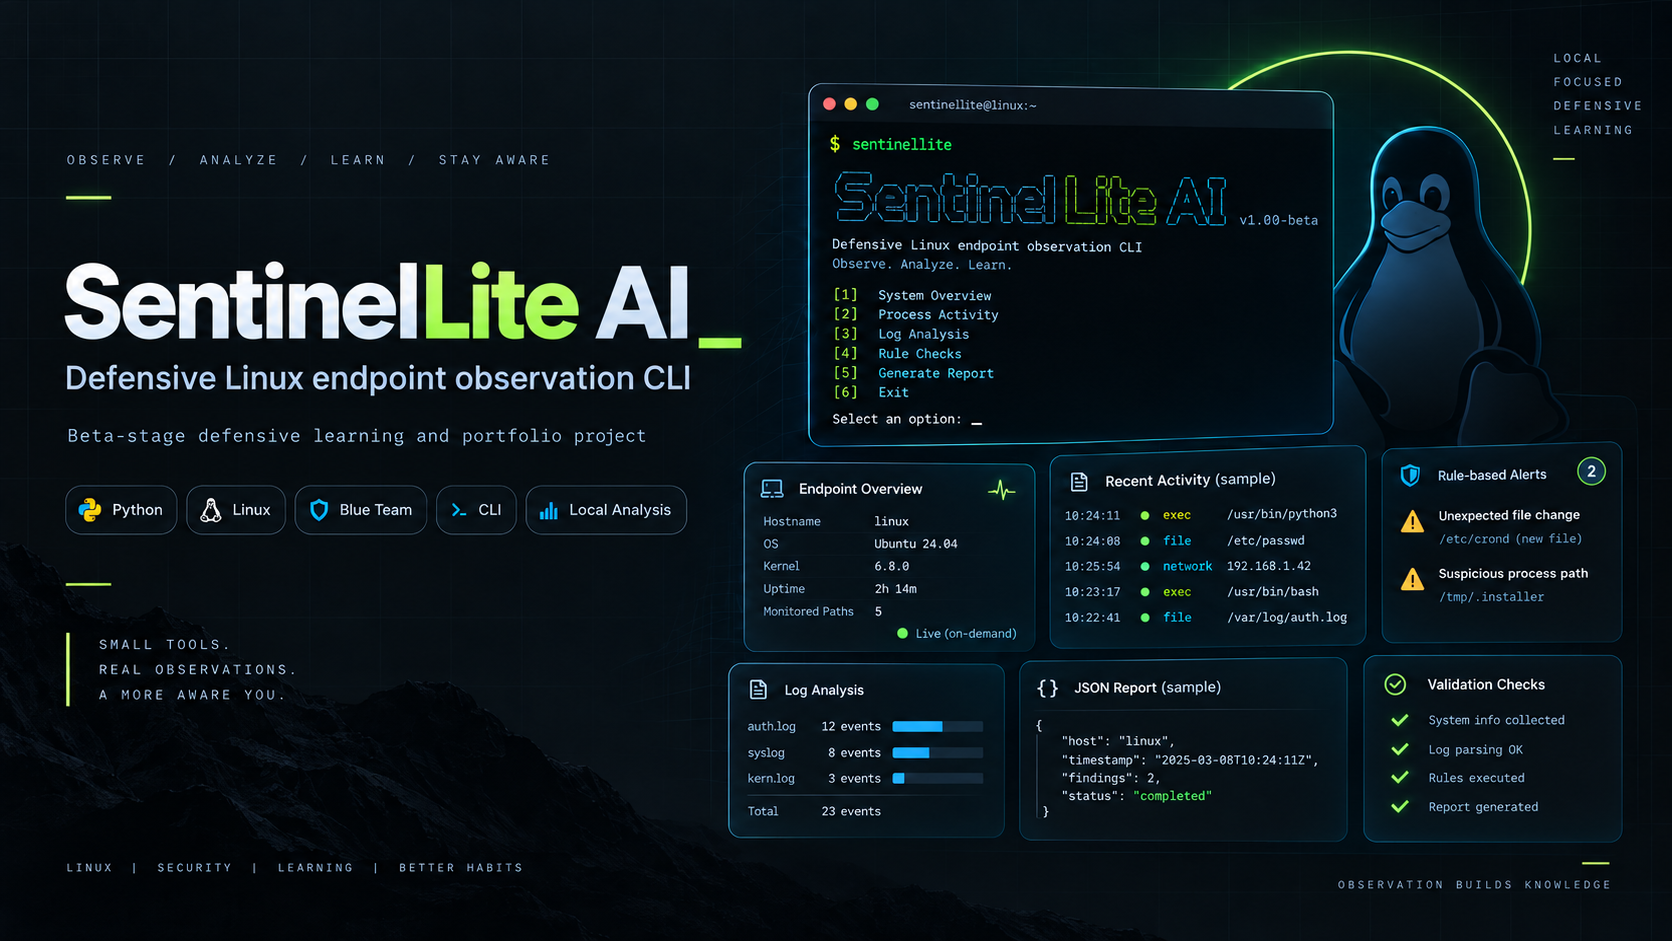
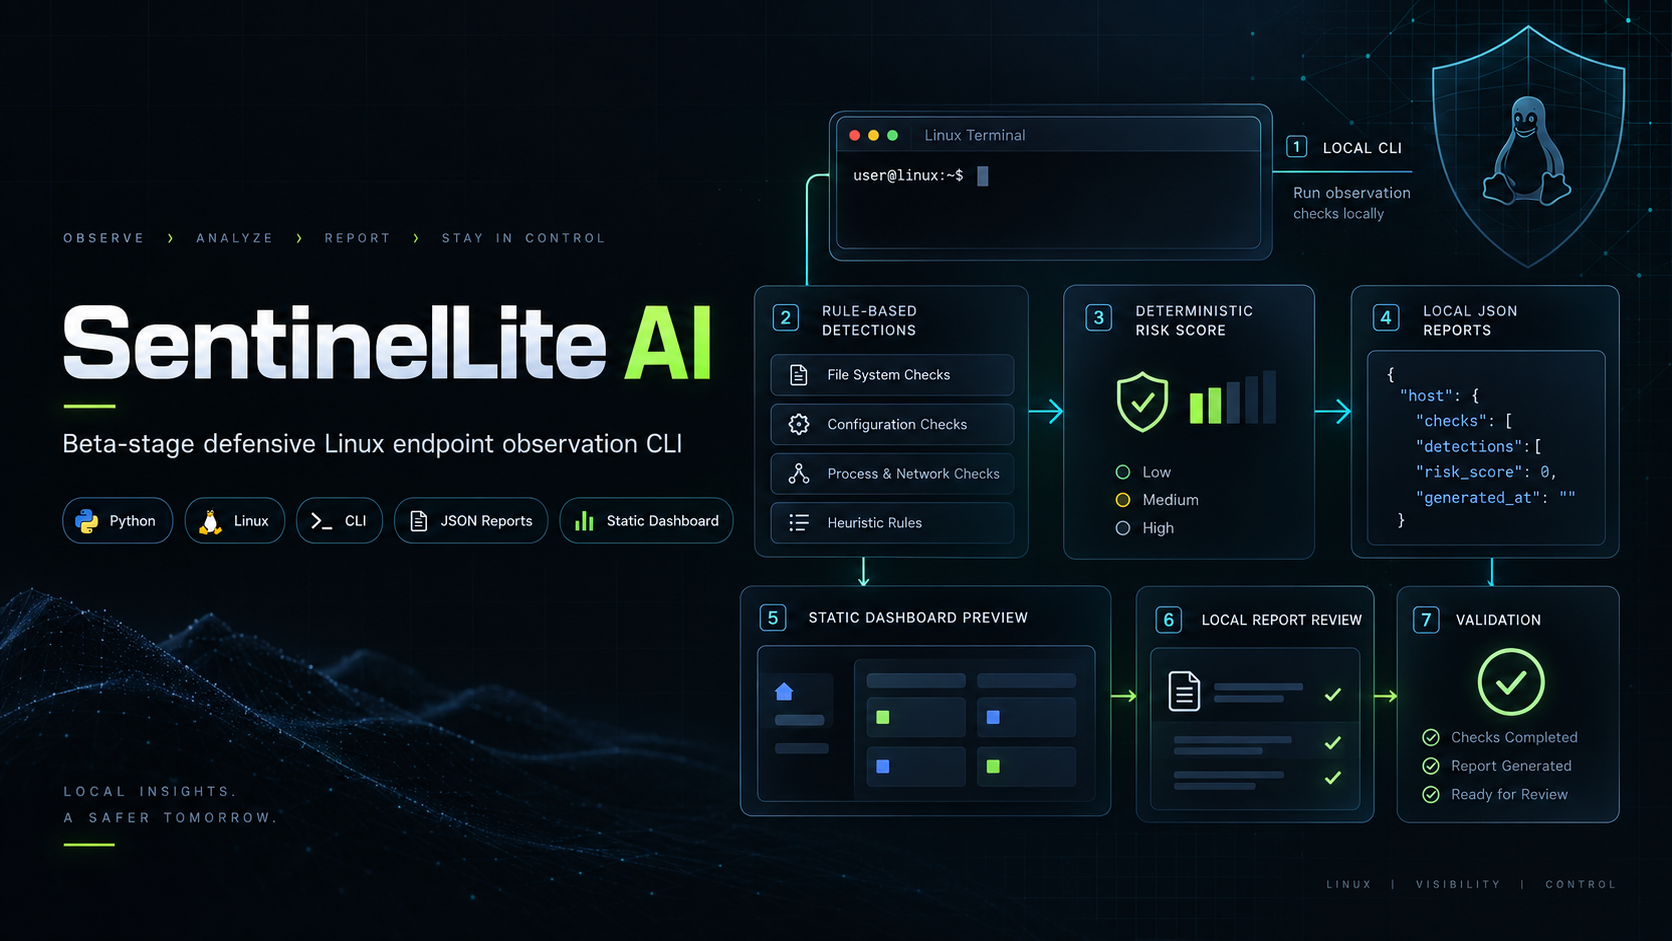
Update SentinelLite AI portfolio to v1.2.0 beta

diff --git a/src/data/projects.js b/src/data/projects.js
@@ -3,46 +3,49 @@ export const projects = [
     id: 6,
     slug: "sentinellite-ai",
     title: "SentinelLite AI",
-    type: "Cybersecurity / Endpoint Observation CLI",
+    type: "Cybersecurity CLI",
     context: "Cybersecurity Project",
-    status: "v1.0.0-beta",
+    status: "v1.2.0-beta",
     year: "2026",
     shortDescription:
-      "A lightweight local defensive endpoint observation CLI for Linux-focused security learning, blue-team practice, and on-demand analysis.",
+      "A beta-stage defensive Linux endpoint observation and report-review CLI that generates local JSON alert reports and static dashboard views for security learning.",
     overview:
-      "SentinelLite AI is a beta-stage local defensive endpoint observation CLI built with Python. It observes selected endpoint/security data locally, normalizes it into security events, applies transparent rule-based detections, calculates deterministic risk scores, generates JSON reports, provides local investigation guidance, and supports local report review/export workflows.",
+      "SentinelLite AI is a beta-stage defensive Linux endpoint observation and report-review CLI that generates local JSON alert reports and static dashboard views for security learning. The v1.2.0-beta release adds the local static dashboard milestone, package artifacts, validation workflow, and stronger documentation around safe local usage.",
     detailedDescription:
-      "SentinelLite AI is a beta-stage local defensive endpoint observation CLI built with Python. It observes selected endpoint/security data locally, normalizes it into security events, applies transparent rule-based detections, calculates deterministic risk scores, generates JSON reports, provides local investigation guidance, and supports local report review/export workflows.",
+      "SentinelLite AI is a beta-stage defensive Linux endpoint observation and report-review CLI that generates local JSON alert reports and static dashboard views for security learning. The v1.2.0-beta release adds the local static dashboard milestone, package artifacts, validation workflow, and stronger documentation around safe local usage.",
     challenge:
-      "The main challenge was building a transparent, deterministic detection and scoring pipeline that produces meaningful security insights without relying on external services, cloud APIs, or AI/LLM models. Every detection rule, risk score calculation, and report output needed to be fully explainable and reproducible locally.",
+      "The main challenge was building a transparent, deterministic detection and scoring pipeline that produces meaningful security insights without relying on external services, cloud APIs, or AI/LLM models. Every detection rule, risk score calculation, and report output needed to be fully explainable and reproducible locally. The v1.2.0-beta release added static dashboard generation and package artifact workflows while preserving this deterministic foundation.",
     myRole:
-      "I designed, developed, tested, validated, and released the entire project independently — including the CLI architecture, detection pipeline, scoring engine, report system, CI/CD workflows, cross-platform validation, and public GitHub pre-release.",
+      "I designed, developed, tested, validated, and released the entire project independently — including the CLI architecture, detection pipeline, scoring engine, report system, static dashboard export, package artifacts, CI/CD workflows, cross-platform validation, and public GitHub pre-release.",
     tech: [
       "Python",
       "Linux",
       "Cybersecurity",
       "Blue Team",
-      "Endpoint Security",
-      "Detection Engineering",
       "CLI",
       "JSON Reports",
-      "GitHub Actions",
-      "ARM64",
+      "Static Dashboard",
+      "Rule-Based Detection",
+      "Risk Scoring",
     ],
     features: [
-      "Local endpoint/security data observation",
-      "Security event normalization pipeline",
-      "Transparent rule-based detection engine",
-      "Deterministic risk score calculation",
-      "JSON report generation",
-      "Local investigation guidance",
-      "Report review and export workflows",
-      "597 automated tests passed",
-      "GitHub Actions CI validation",
-      "Cross-platform validation (macOS Apple Silicon, Ubuntu ARM64)",
+      "Local on-demand Linux endpoint observation CLI",
+      "Authentication log analysis",
+      "Process and active network connection observation",
+      "Selected file integrity checks",
+      "Baseline-backed file integrity comparison",
+      "Rule-based detection and deterministic risk scoring",
+      "Local JSON alert reports",
+      "Local report history and review workflow",
+      "Deterministic local alert explanations",
+      "Static local dashboard export",
+      "TOML config/module gating",
+      "Package artifacts with SHA256 hashes",
+      "GitHub Actions CI with Python 3.11 and 3.14 validation",
+      "652 automated tests passed",
     ],
     result:
-      "SentinelLite AI reached its v1.0.0-beta public pre-release with 597 automated tests passing, full CI/CD validation on Python 3.11 and Python 3.14, cross-platform builds on macOS Apple Silicon and Ubuntu ARM64, SHA-256 checksums, and a clean GitHub pre-release. It demonstrates practical defensive security engineering concepts, detection pipeline design, and disciplined software release practices.",
+      "SentinelLite AI reached its v1.2.0-beta public pre-release with 652 automated tests passing, full CI/CD validation on Python 3.11 and Python 3.14, static dashboard export, package artifacts with SHA-256 checksums, and a clean GitHub pre-release. It demonstrates practical defensive security engineering concepts, detection pipeline design, static dashboard generation, and disciplined software release practices.",
     featured: true,
     ctaLabel: "Read Case Study",
     mainImage: "/images/projects/sentinellite-ai/cover.png",
@@ -52,8 +55,8 @@ export const projects = [
         href: "https://github.com/kavisara-samarakoon/sentinellite-ai",
       },
       {
-        label: "v1.0.0-beta Release",
-        href: "https://github.com/kavisara-samarakoon/sentinellite-ai/releases/tag/v1.0.0-beta",
+        label: "v1.2.0-beta Release",
+        href: "https://github.com/kavisara-samarakoon/sentinellite-ai/releases/tag/v1.2.0-beta",
       },
     ],
     pipeline: [
@@ -64,29 +67,30 @@ export const projects = [
       "Explain",
       "Report",
       "Review",
+      "Dashboard",
     ],
     validation: [
-      "597 automated tests passed",
+      "652 automated tests passed",
       "Ruff linting passed",
       "pip check passed",
       "GitHub Actions CI passed",
       "Python 3.11 and Python 3.14 CI validation",
       "macOS Apple Silicon validation",
       "Ubuntu ARM64 validation",
-      "Release artifacts rebuilt and validated",
+      "Package artifacts rebuilt and validated",
       "SHA-256 checksums generated",
-      "Public GitHub pre-release v1.0.0-beta",
+      "Public GitHub pre-release v1.2.0-beta",
     ],
     distribution: {
-      status: "v1.0.0-beta • Public GitHub Pre-release",
+      status: "v1.2.0-beta • Public GitHub Pre-release",
       note: "Not yet published to PyPI. Install from GitHub release artifacts.",
     },
     safetyBoundaries: [
-      "Beta-stage, local, on-demand, defensive-only, and portfolio/security-learning focused",
+      "SentinelLite AI is beta-stage software for local defensive security learning. It is not a production EDR, antivirus, SIEM/SOC platform, malware remover, real AI/LLM-powered system, public scanner, background monitor, exploit tool, or automatic remediation tool.",
     ],
     limitations: [
       "Not a production EDR, antivirus, malware remover, SIEM, SOC platform, or enterprise-ready product",
-      "Not real AI/LLM-powered yet",
+      "Not real AI/LLM-powered",
       "Not PyPI-published yet",
       "Not an automatic protection system",
       "Does not run as a daemon or background service",
@@ -98,14 +102,19 @@ export const projects = [
     ],
     gallery: [
       {
-        src: "/images/projects/sentinellite-ai/sentinellite-ai-validation-banner.png",
-        alt: "SentinelLite AI v1.0.0-beta validation — 597 tests passed, CI success, cross-platform builds",
-        caption: "v1.0.0-beta Validation Summary",
+        src: "/images/projects/sentinellite-ai/sentinellite-v120-journey.png",
+        alt: "SentinelLite AI project journey from v0.1.0-alpha to v1.2.0-beta",
+        caption: "Project Journey — Alpha to v1.2.0-beta",
       },
       {
-        src: "/images/projects/sentinellite-ai/journey.png",
-        alt: "SentinelLite AI project journey from v0.1.0-alpha to v1.0.0-beta",
-        caption: "Project Journey — Alpha to Beta",
+        src: "/images/projects/sentinellite-ai/sentinellite-v120-validation.png",
+        alt: "SentinelLite AI v1.2.0-beta validation — 652 tests passed, CI success",
+        caption: "v1.2.0-beta Validation Summary",
+      },
+      {
+        src: "/images/projects/sentinellite-ai/sentinellite-dashboard-workflow.png",
+        alt: "SentinelLite AI static dashboard export workflow",
+        caption: "Static Dashboard Export Workflow",
       },
     ],
   },

diff --git a/src/components/ProjectVisual.jsx b/src/components/ProjectVisual.jsx
@@ -733,7 +733,7 @@ const projectVisuals = {
   "sentinellite-ai": {
     gradient: "from-accent/15 via-accent/5 to-transparent",
     imageSrc: "/images/projects/sentinellite-ai/cover.png",
-    imageAlt: "SentinelLite AI defensive Linux endpoint observation CLI cover",
+    imageAlt: "SentinelLite AI v1.2.0-beta defensive Linux endpoint observation CLI cover",
   },
   "arm-secnet": {
     gradient: "from-accent/15 via-accent/5 to-transparent",

diff --git a/.ghost/status.md b/.ghost/status.md
@@ -1,0 +1,5 @@
+# Project status
+
+Workspace initialized. No workflow has been executed.
+
+Next step: draft a milestone for owner review.

diff --git a/.ghost/decisions.md b/.ghost/decisions.md
@@ -1,0 +1,3 @@
+# Decisions
+
+Record reviewed decisions here. Drafts are not approvals.
